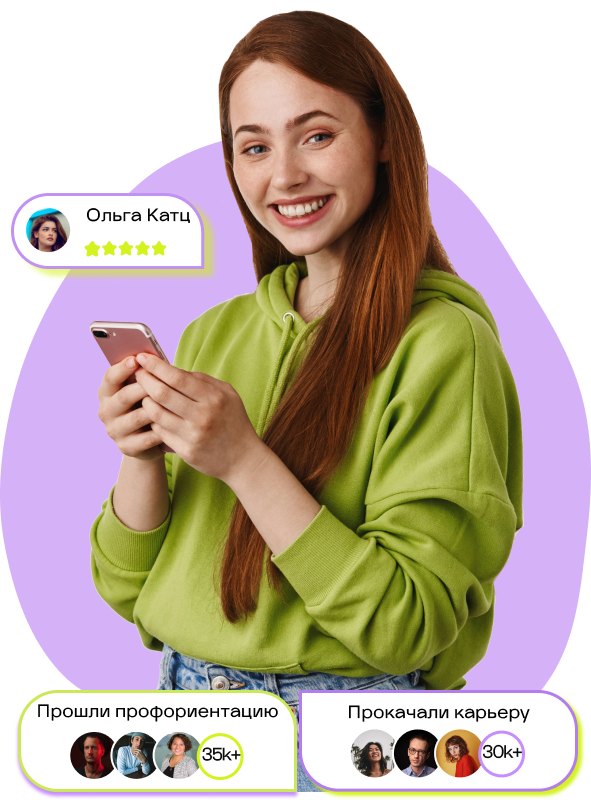
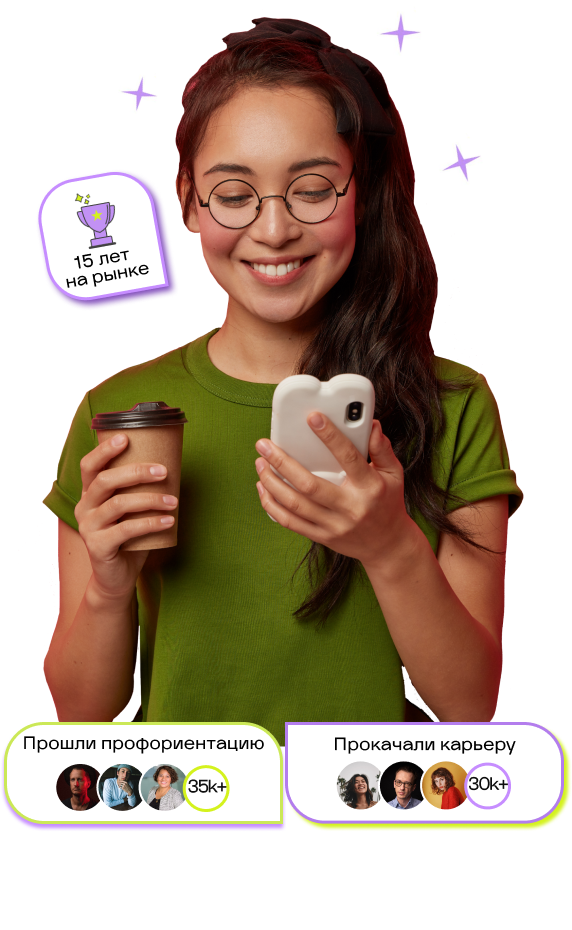
/
/

diff --git a/css/style.css b/css/style.css
@@ -131,8 +131,8 @@ button {
   position: relative;
   bottom: 600px;
   left: 67%;
-  width: 196px;
-  height: 132px;
+  width: 118px;
+  height: 122px;
   display: inline-flex;
   padding: 13.077px;
   flex-direction: column;
@@ -148,6 +148,14 @@ button {
   background-position: center;
   background-position-y: 15%;
   background-size: initial;
+  transform: rotate(18deg);
+  color: var(--text-black);
+  text-align: center;
+  font-family: Racama;
+  font-size: 18px;
+  font-style: normal;
+  font-weight: 400;
+  line-height: 95%; /* 17.1px */
 }
 .offer-img__button-bot {
   position: relative;
@@ -160,18 +168,17 @@ button {
   background-position: center;
   background-size: inherit;
 
+  border-radius: 0px 40px 40px 40px;
+  border: 3px solid var(--Violet, #c68dff);
+  box-shadow: 3px 3px 4px 0px #e5fb8c;
   display: inline-flex;
-  padding: 24px 28px;
+  padding: 8px 16px;
   justify-content: center;
   align-items: center;
-  gap: 10px;
-  border-radius: 40px 40px 40px 0px;
-  border: 3px solid #b37ded;
-  box-shadow: 3px 3px 4px 0px var(--Light-green);
 }
 .offer-img__container-statistics {
   position: relative;
-  bottom: 120px;
+  bottom: 190px;
   width: 100%;
   height: 82px;
   display: flex;
